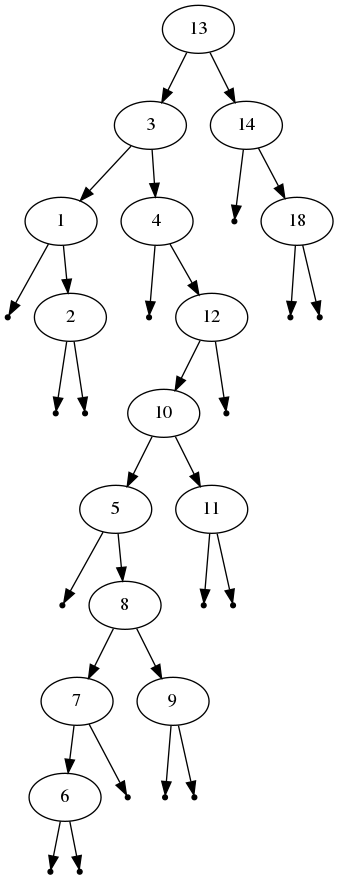
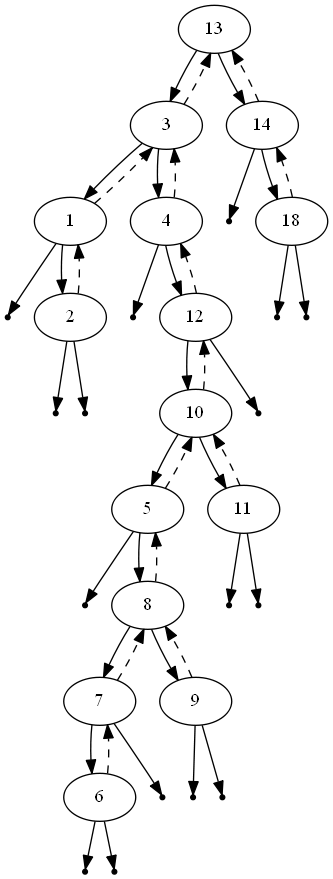
Knoop en boom ontdubbeld

diff --git a/2017-2018/labo-1/zoekboom14.h b/2017-2018/labo-1/zoekboom14.h
@@ -2,24 +2,13 @@
 #ifndef ZOEKBOOM_H
 #define ZOEKBOOM_H
 
-#include <cstdlib>
-#include <iostream>
-#include <queue>
+#include "zoekknoop14.h"
+
 #include <memory>
 #include <sstream>
 #include <stack>
-#include <cassert>
-#include <algorithm>
 #include <functional>
-#include <fstream>
-
-/*******************************************************************************
-
-Klasse: Zoekboom
-   
-Beschrijving: Binaire zoekboom waarin geen duplicaatsleutels zijn toegestaan
-   
-*******************************************************************************/
+#include <algorithm>
 
 enum class Richting
 {
@@ -39,12 +28,11 @@ public:
     Zoekboom(const Sleutel& sleutel, const Data& data);
     virtual ~Zoekboom();
 
-    Zoekboom(const Zoekboom& andere);
-    Zoekboom& operator=(const Zoekboom & andere);
+    Zoekboom(const Zoekboom<Sleutel, Data>& andere);
+    Zoekboom<Sleutel, Data>& operator=(const Zoekboom<Sleutel, Data>& andere);
 
-    Zoekboom(Zoekboom&& andere) : std::unique_ptr<Zoekknoop<Sleutel, Data>>{std::move(andere)} {};
-    using std::unique_ptr<Zoekknoop<Sleutel, Data>>::operator=;
-    Zoekboom& operator=(Zoekboom&& andere) = default;
+    Zoekboom(Zoekboom<Sleutel, Data>&& andere);
+    Zoekboom<Sleutel, Data>& operator=(Zoekboom<Sleutel, Data>&& andere);
 
     int diepte() const;
     double gemiddelde_diepte() const;
@@ -54,7 +42,6 @@ public:
     void maak_evenwichtig();
     bool is_rep_ok() const;
     void overloop_inorder(std::function<void(const Zoekknoop<Sleutel,Data>&)> bezoek) const;
-    void schrijf(std::ostream& os) const;
     
     std::string get_dot_code() const;
 
@@ -82,7 +69,7 @@ Zoekboom<Sleutel, Data>::~Zoekboom()
 {}
 
 template <class Sleutel, class Data>
-Zoekboom<Sleutel, Data>::Zoekboom(const Zoekboom& andere)
+Zoekboom<Sleutel, Data>::Zoekboom(const Zoekboom<Sleutel, Data>& andere)
 {
     if (!andere)
     {
@@ -90,8 +77,20 @@ Zoekboom<Sleutel, Data>::Zoekboom(const Zoekboom& andere)
     }
     else
     {
-        *this = std::make_unique<Zoekknoop<Sleutel, Data>>(*andere);
+        this->reset(new Zoekknoop<Sleutel, Data>{*andere});
     }
+}
+
+template <class Sleutel, class Data>
+Zoekboom<Sleutel, Data>::Zoekboom(Zoekboom<Sleutel, Data>&& andere)
+: std::unique_ptr<Zoekknoop<Sleutel, Data>>{std::move(andere)} 
+{}
+
+template <class Sleutel, class Data>
+Zoekboom<Sleutel, Data>& Zoekboom<Sleutel, Data>::operator=(Zoekboom<Sleutel, Data>&& andere)
+{
+    this->swap(andere);
+    return *this;
 }
 
 template <class Sleutel, class Data>
@@ -295,35 +294,6 @@ void Zoekboom<Sleutel, Data>::overloop_inorder(std::function<void(const Zoekknoo
 }
 
 template <class Sleutel, class Data>
-void Zoekboom<Sleutel, Data>::schrijf(std::ostream& os) const
-{
-    overloop_inorder([&os](const Zoekknoop<Sleutel, Data>& knoop)
-    {
-        os << "(" << knoop.sleutel << " -> " << knoop.data << ")";
-        os << "\n  Linkerkind: ";
-        if (knoop.links)
-        {
-            os << knoop.links->sleutel;
-        }
-        else
-        {
-            os << "-----";
-        }
-        os << "\n  Rechterkind: ";
-        if (knoop.rechts)
-        {
-            os << knoop.rechts->sleutel;
-        }
-        else
-        {
-            os << "-----";
-        }
-        os << "\n";
-    });
-}
-
-
-template <class Sleutel, class Data>
 void Zoekboom<Sleutel, Data>::is_current_rep_ok(bool& is_ok) const 
 {
     if (!(*this) || !is_ok)
@@ -429,72 +399,6 @@ std::string Zoekboom<Sleutel, Data>::get_dot_code() const
     }
 
     return ss.str();
-}
-
-/******************************************************************************/
-
-template <class Sleutel, class Data>
-class Zoekknoop
-{
-public:
-
-    friend class Zoekboom<Sleutel, Data>;
-
-    Zoekknoop(const Sleutel& sleutel, const Data& data);
-    virtual ~Zoekknoop();
-
-    Zoekknoop(const Zoekknoop& andere);
-    Zoekknoop& operator=(const Zoekknoop & andere);
-
-    Zoekknoop(Zoekknoop&& andere) = delete;
-    Zoekknoop& operator=(Zoekknoop&& andere) = delete;
-
-protected:
-
-    Sleutel sleutel;
-    Data data;
-
-    Zoekknoop<Sleutel, Data>* ouder;
-    Zoekboom<Sleutel, Data> links, rechts;
-};
-
-/******************************************************************************/
-
-template <class Sleutel, class Data>
-Zoekknoop<Sleutel, Data>::Zoekknoop(const Sleutel& sleutel, const Data& data) 
-: sleutel{sleutel}, data{data}, ouder{nullptr}
-{}
-
-template <class Sleutel, class Data>
-Zoekknoop<Sleutel, Data>::~Zoekknoop() 
-{}
-
-template <class Sleutel, class Data>
-Zoekknoop<Sleutel, Data>& Zoekknoop<Sleutel, Data>::operator=(const Zoekknoop<Sleutel, Data>& andere)
-{
-    Zoekknoop<Sleutel, Data> temp(andere);
-    temp.swap(*this);
-
-    return *this;
-}
-
-template <class Sleutel, class Data>
-Zoekknoop<Sleutel, Data>::Zoekknoop(const Zoekknoop<Sleutel, Data>& ander) 
-{
-    sleutel = ander.sleutel;
-    data = ander.data;
-    ouder = nullptr; // Belangrijk voor root
-
-    links = Zoekboom<Sleutel, Data>{ander.links};
-    if (links) {
-        links->ouder = this;
-    }
-    
-    rechts = Zoekboom<Sleutel, Data>{ander.rechts};
-    if (rechts)
-    {
-        rechts->ouder = this;
-    }
 }
 
 #endif /* ZOEKBOOM_H */

diff --git a/2017-2018/labo-1/zoekknoop14.h b/2017-2018/labo-1/zoekknoop14.h
@@ -1,0 +1,79 @@
+
+#ifndef ZOEKKNOOP_H
+#define ZOEKKNOOP_H
+
+#include "zoekboom14.h"
+
+#include <memory>
+
+template <class Sleutel, class Data>
+class Zoekknoop;
+
+template <class Sleutel, class Data>
+class Zoekboom;
+
+template <class Sleutel, class Data>
+class Zoekknoop
+{
+public:
+
+    friend class Zoekboom<Sleutel, Data>;
+
+    Zoekknoop(const Sleutel& sleutel, const Data& data);
+    virtual ~Zoekknoop();
+
+    Zoekknoop(const Zoekknoop<Sleutel, Data>& andere);
+    Zoekknoop<Sleutel, Data>& operator=(const Zoekknoop<Sleutel, Data>& andere);
+
+    Zoekknoop(Zoekknoop<Sleutel, Data>&& andere) = delete;
+    Zoekknoop<Sleutel, Data>& operator=(Zoekknoop<Sleutel, Data>&& andere) = delete;
+
+protected:
+
+    Sleutel sleutel;
+    Data data;
+
+    Zoekknoop<Sleutel, Data>* ouder;
+    Zoekboom<Sleutel, Data> links, rechts;
+};
+
+/******************************************************************************/
+
+template <class Sleutel, class Data>
+Zoekknoop<Sleutel, Data>::Zoekknoop(const Sleutel& sleutel, const Data& data) 
+: sleutel{sleutel}, data{data}, ouder{nullptr}
+{}
+
+template <class Sleutel, class Data>
+Zoekknoop<Sleutel, Data>::~Zoekknoop() 
+{}
+
+template <class Sleutel, class Data>
+Zoekknoop<Sleutel, Data>& Zoekknoop<Sleutel, Data>::operator=(const Zoekknoop<Sleutel, Data>& andere)
+{
+    Zoekknoop<Sleutel, Data> temp(andere);
+    temp.swap(*this);
+
+    return *this;
+}
+
+template <class Sleutel, class Data>
+Zoekknoop<Sleutel, Data>::Zoekknoop(const Zoekknoop<Sleutel, Data>& ander) 
+{
+    sleutel = ander.sleutel;
+    data = ander.data;
+    ouder = nullptr; // Belangrijk voor root
+
+    links = Zoekboom<Sleutel, Data>{ander.links};
+    if (links) {
+        links->ouder = this;
+    }
+    
+    rechts = Zoekboom<Sleutel, Data>{ander.rechts};
+    if (rechts)
+    {
+        rechts->ouder = this;
+    }
+}
+
+#endif /* ZOEKKNOOP_H */

diff --git a/2017-2018/labo-1/main.cpp b/2017-2018/labo-1/main.cpp
@@ -4,9 +4,12 @@
 #include <string>
 #include <iostream>
 #include <fstream>
+#include <cassert>
 
 int main()
 {
+
+    Zoekknoop<int, int> zk{ 1, 111 };
 
     Zoekboom<int, int> zb;
 
@@ -33,6 +36,8 @@ int main()
     std::cout << "Rep OK: " << (zb.is_rep_ok() ? "OK" : "Niet OK") << std::endl;
     assert(zb.is_rep_ok());
     
+    Zoekknoop<int, int> zk2{*zb};
+
     std::cout << "Gevuld:" << std::endl;
     std::cout << zb.get_dot_code() << std::endl;
     out.open("boom_gevuld.dot");
